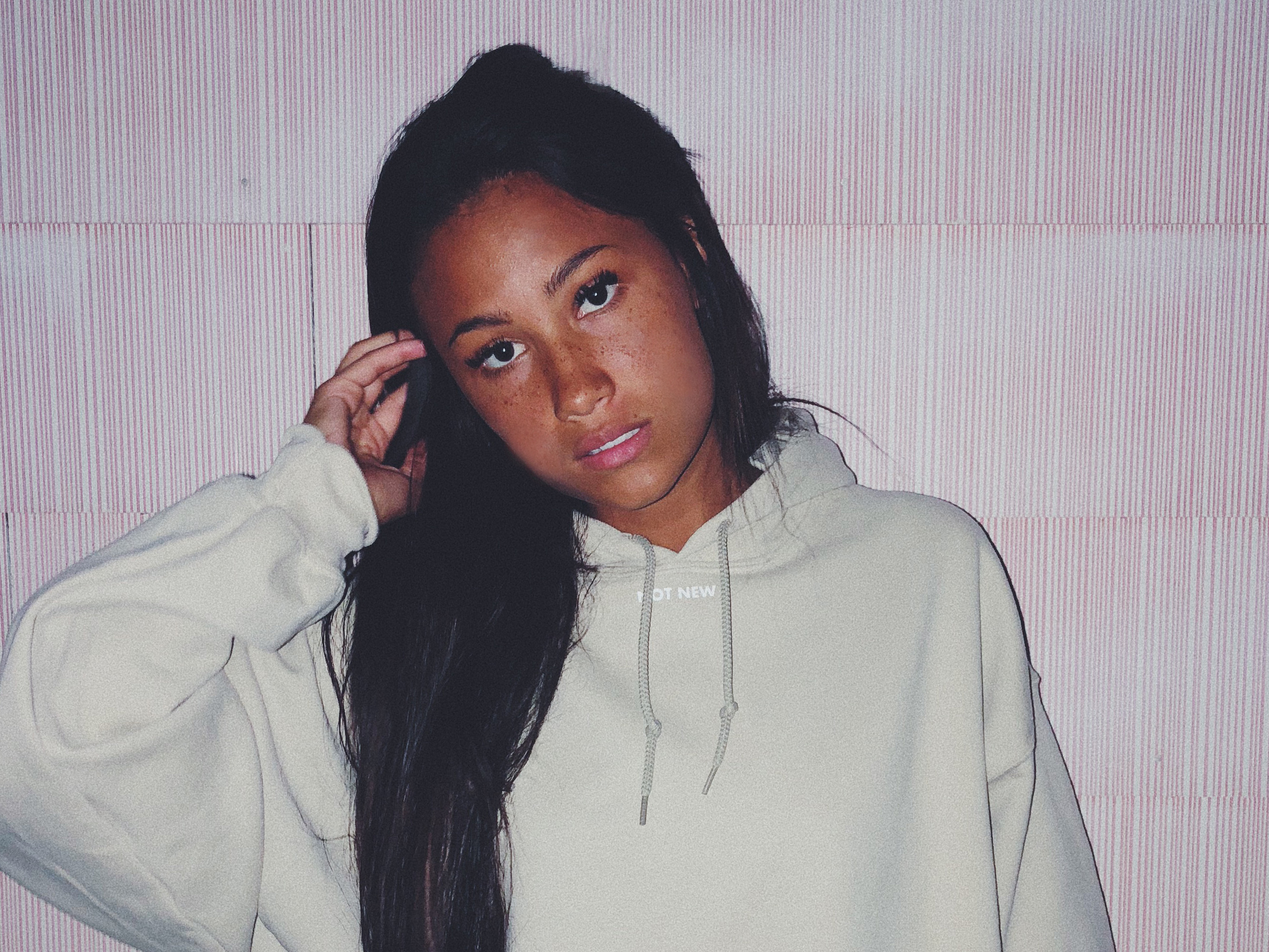
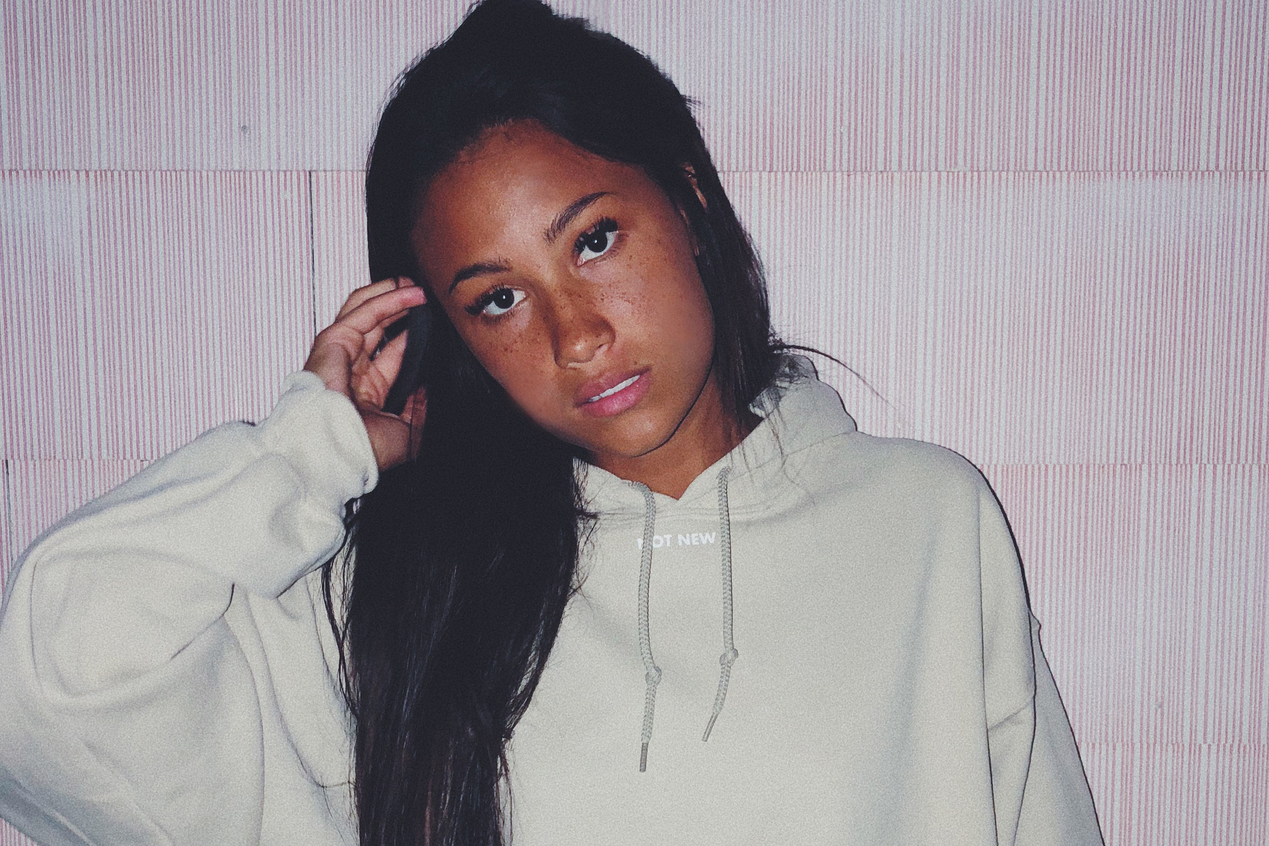
Added Pink Sweatshirt

diff --git a/_site/assets/js/notnew.js b/_site/assets/js/notnew.js
@@ -8,13 +8,6 @@ function isTouch() { // check to see if touch screen
   }
 }
 var allProducts = [
-  // {
-	// 	title: 'Sweatshirt',
-	// 	desc: 'Black sweatshirt with print on chest and right arm.',
-	// 	img: '/assets/img/black-sweatshirt.jpg',
-	// 	price: '40',
-  //   sku: 'NNH001'
-	// },
 	{
 		title: 'White T-Shirt',
 		desc: 'White t-shirt with front and back black print.',
@@ -25,11 +18,23 @@ var allProducts = [
 			'/assets/img/not-new-white-t-1.jpg',
 		],
 		price: '21',
+		sku: 'NNH007'
+	},
+	{
+		title: 'Pink Sweatshirt',
+		desc: 'Pink sweatshirt with white print.<br>(Pink L and XL on backorder.)',
+		images: [
+			'/assets/img/not-new-pink-hoody-w-1.JPG',
+			'/assets/img/not-new-pink-hoody-w-2.JPG',
+			'/assets/img/not-new-pink-hoody-w-3.JPG',
+			'/assets/img/not-new-pink-hoody-w-4.JPG',
+		],
+		price: '40',
 		sku: 'NNH006'
 	},
 	{
 		title: 'Sand Sweatshirt',
-		desc: 'Sand sweatshirt with white print.<br>(Sand larges on backorder.)',
+		desc: 'Sand sweatshirt with white print.<br>(Sand L on backorder.)',
 		images: [
 			'/assets/img/not-new-sand-hoody-w-landscape.JPG',
 			'/assets/img/not-new-sand-hoody-w-2.JPG',

diff --git a/_includes/js/products.js b/_includes/js/products.js
@@ -1,11 +1,4 @@
 var allProducts = [
-  // {
-	// 	title: 'Sweatshirt',
-	// 	desc: 'Black sweatshirt with print on chest and right arm.',
-	// 	img: '/assets/img/black-sweatshirt.jpg',
-	// 	price: '40',
-  //   sku: 'NNH001'
-	// },
 	{
 		title: 'White T-Shirt',
 		desc: 'White t-shirt with front and back black print.',
@@ -16,11 +9,23 @@ var allProducts = [
 			'/assets/img/not-new-white-t-1.jpg',
 		],
 		price: '21',
+		sku: 'NNH007'
+	},
+	{
+		title: 'Pink Sweatshirt',
+		desc: 'Pink sweatshirt with white print.<br>(Pink L and XL on backorder.)',
+		images: [
+			'/assets/img/not-new-pink-hoody-w-1.JPG',
+			'/assets/img/not-new-pink-hoody-w-2.JPG',
+			'/assets/img/not-new-pink-hoody-w-3.JPG',
+			'/assets/img/not-new-pink-hoody-w-4.JPG',
+		],
+		price: '40',
 		sku: 'NNH006'
 	},
 	{
 		title: 'Sand Sweatshirt',
-		desc: 'Sand sweatshirt with white print.<br>(Sand larges on backorder.)',
+		desc: 'Sand sweatshirt with white print.<br>(Sand L on backorder.)',
 		images: [
 			'/assets/img/not-new-sand-hoody-w-landscape.JPG',
 			'/assets/img/not-new-sand-hoody-w-2.JPG',

diff --git a/_site/assets/js/checkout.js b/_site/assets/js/checkout.js
@@ -1,11 +1,4 @@
 var allProducts = [
-  // {
-	// 	title: 'Sweatshirt',
-	// 	desc: 'Black sweatshirt with print on chest and right arm.',
-	// 	img: '/assets/img/black-sweatshirt.jpg',
-	// 	price: '40',
-  //   sku: 'NNH001'
-	// },
 	{
 		title: 'White T-Shirt',
 		desc: 'White t-shirt with front and back black print.',
@@ -16,11 +9,23 @@ var allProducts = [
 			'/assets/img/not-new-white-t-1.jpg',
 		],
 		price: '21',
+		sku: 'NNH007'
+	},
+	{
+		title: 'Pink Sweatshirt',
+		desc: 'Pink sweatshirt with white print.<br>(Pink L and XL on backorder.)',
+		images: [
+			'/assets/img/not-new-pink-hoody-w-1.JPG',
+			'/assets/img/not-new-pink-hoody-w-2.JPG',
+			'/assets/img/not-new-pink-hoody-w-3.JPG',
+			'/assets/img/not-new-pink-hoody-w-4.JPG',
+		],
+		price: '40',
 		sku: 'NNH006'
 	},
 	{
 		title: 'Sand Sweatshirt',
-		desc: 'Sand sweatshirt with white print.<br>(Sand larges on backorder.)',
+		desc: 'Sand sweatshirt with white print.<br>(Sand L on backorder.)',
 		images: [
 			'/assets/img/not-new-sand-hoody-w-landscape.JPG',
 			'/assets/img/not-new-sand-hoody-w-2.JPG',

diff --git a/_site/assets/js/product.js b/_site/assets/js/product.js
@@ -1,11 +1,4 @@
 var allProducts = [
-  // {
-	// 	title: 'Sweatshirt',
-	// 	desc: 'Black sweatshirt with print on chest and right arm.',
-	// 	img: '/assets/img/black-sweatshirt.jpg',
-	// 	price: '40',
-  //   sku: 'NNH001'
-	// },
 	{
 		title: 'White T-Shirt',
 		desc: 'White t-shirt with front and back black print.',
@@ -16,11 +9,23 @@ var allProducts = [
 			'/assets/img/not-new-white-t-1.jpg',
 		],
 		price: '21',
+		sku: 'NNH007'
+	},
+	{
+		title: 'Pink Sweatshirt',
+		desc: 'Pink sweatshirt with white print.<br>(Pink L and XL on backorder.)',
+		images: [
+			'/assets/img/not-new-pink-hoody-w-1.JPG',
+			'/assets/img/not-new-pink-hoody-w-2.JPG',
+			'/assets/img/not-new-pink-hoody-w-3.JPG',
+			'/assets/img/not-new-pink-hoody-w-4.JPG',
+		],
+		price: '40',
 		sku: 'NNH006'
 	},
 	{
 		title: 'Sand Sweatshirt',
-		desc: 'Sand sweatshirt with white print.<br>(Sand larges on backorder.)',
+		desc: 'Sand sweatshirt with white print.<br>(Sand L on backorder.)',
 		images: [
 			'/assets/img/not-new-sand-hoody-w-landscape.JPG',
 			'/assets/img/not-new-sand-hoody-w-2.JPG',
